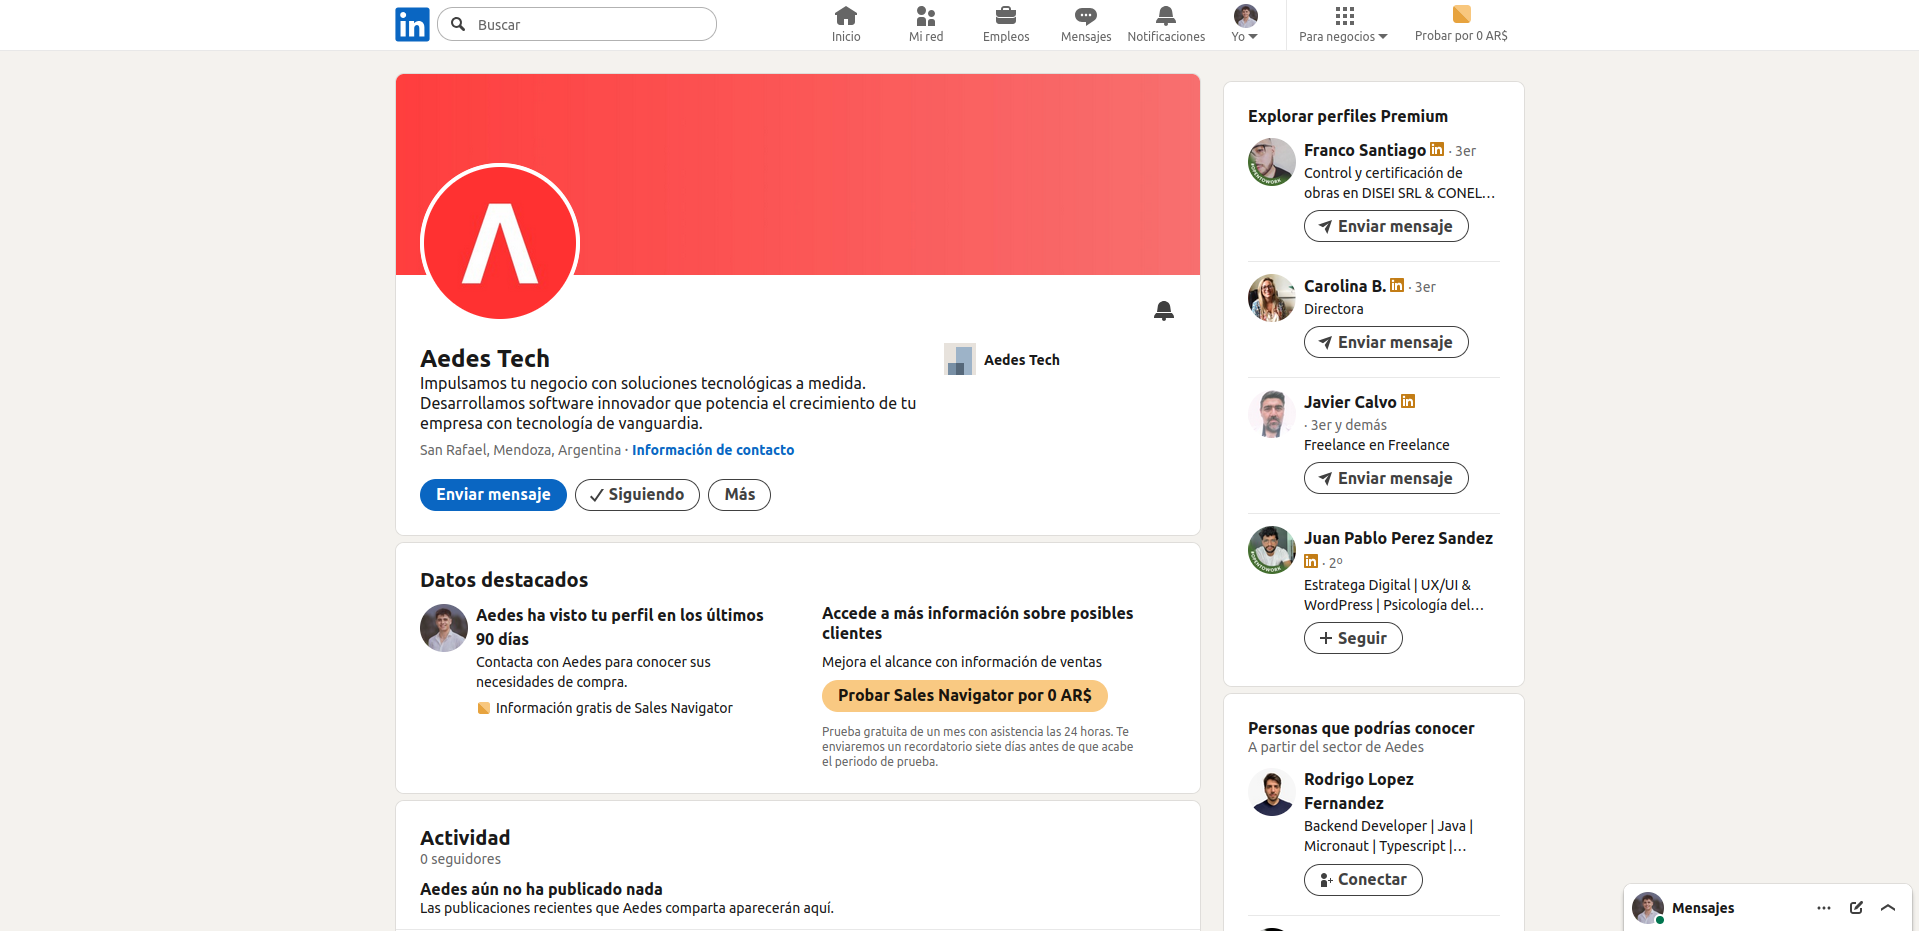
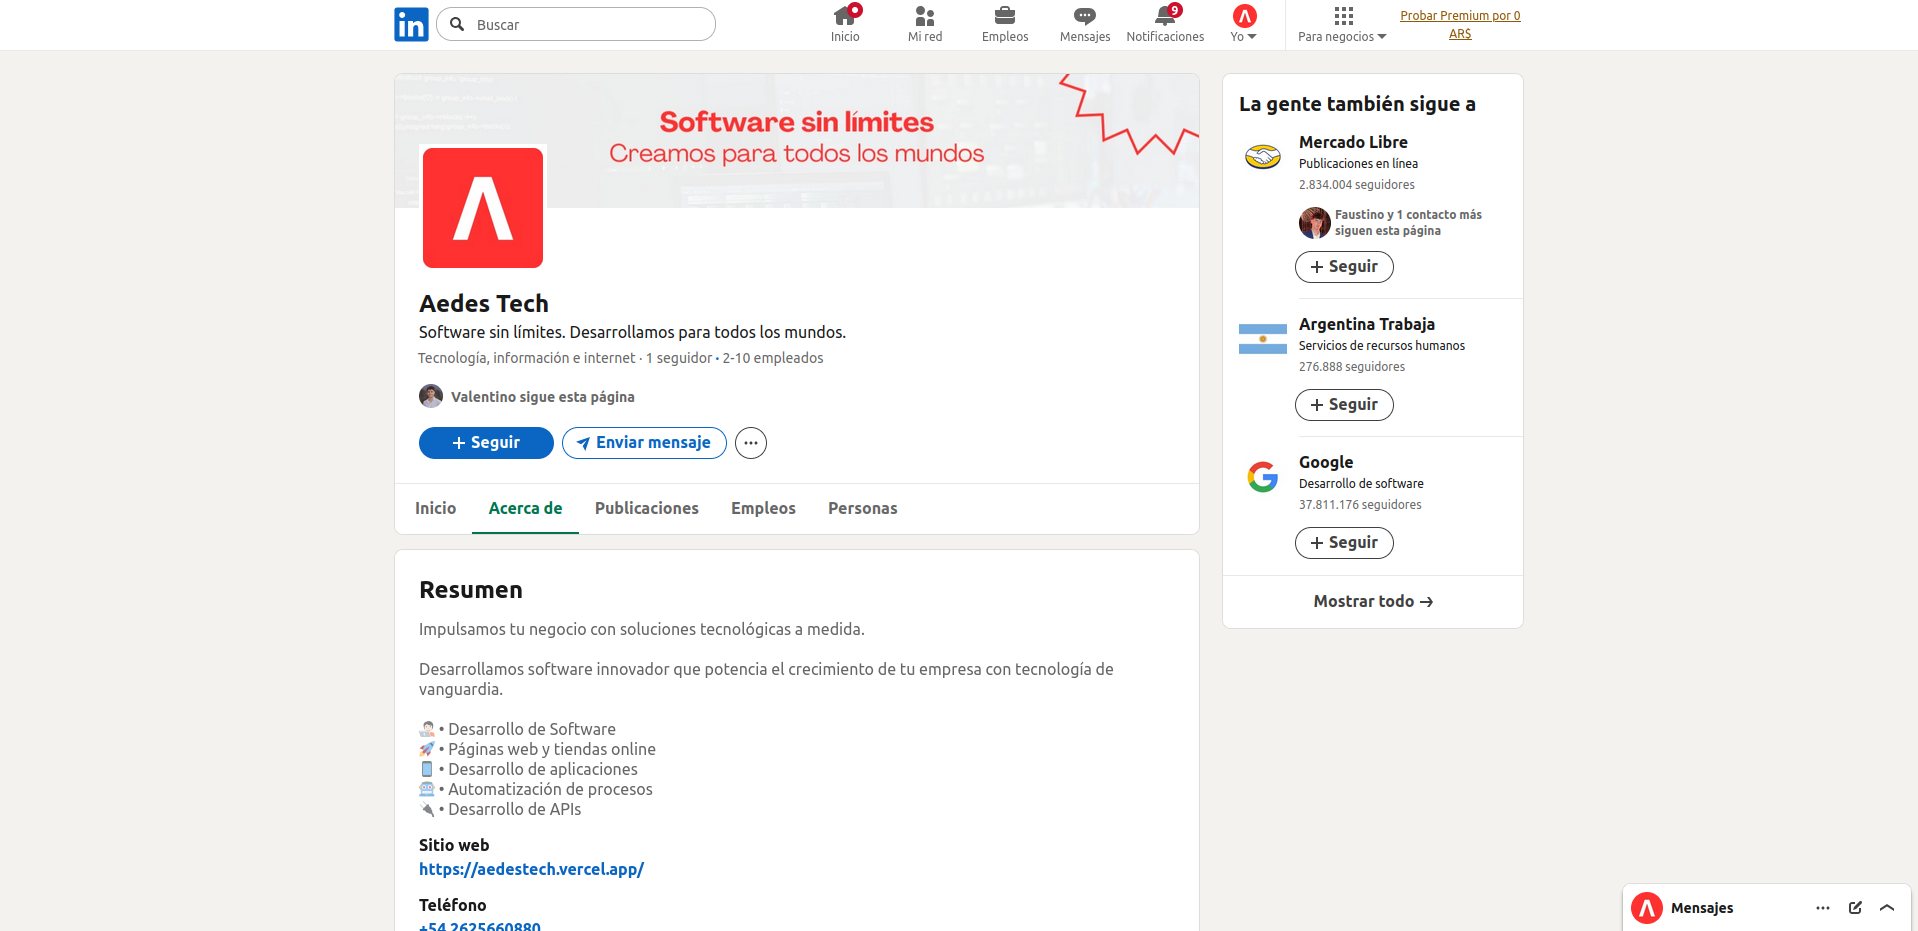
Cambio el link del linkedin de aedes

diff --git a/components/Contact/Contact.tsx b/components/Contact/Contact.tsx
@@ -138,8 +138,8 @@ export const Contact: React.FC<{ themeClasses: any }> = ({ themeClasses }) => {
                                 </div>
                                 <div className="flex items-center space-x-3">
                                     <Linkedin className="h-5 w-5 text-red-400" />
-                                    <LinkPreview url="https://www.linkedin.com/in/aedestech/" isStatic={true} imageSrc="/team/aedes-linkedin.png">
-                                        <span className={themeClasses.textSecondary}>linkedin.com/in/aedestech</span>
+                                    <LinkPreview url="https://www.linkedin.com/company/aedestech/" isStatic={true} imageSrc="/team/aedes-linkedin.png">
+                                        <span className={themeClasses.textSecondary}>linkedin.com/company/aedestech</span>
                                     </LinkPreview>
                                 </div>
                                 <div className="flex items-center space-x-3">
